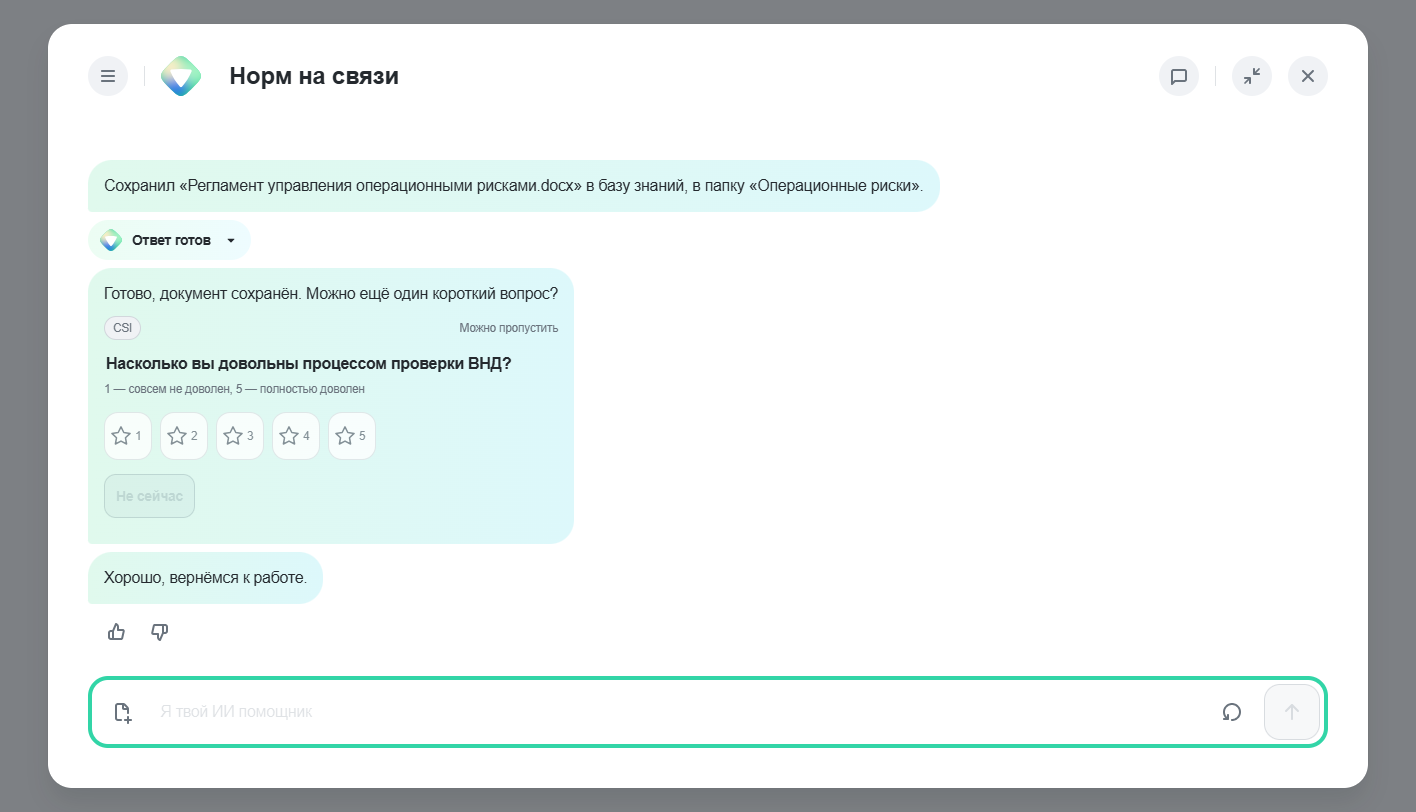
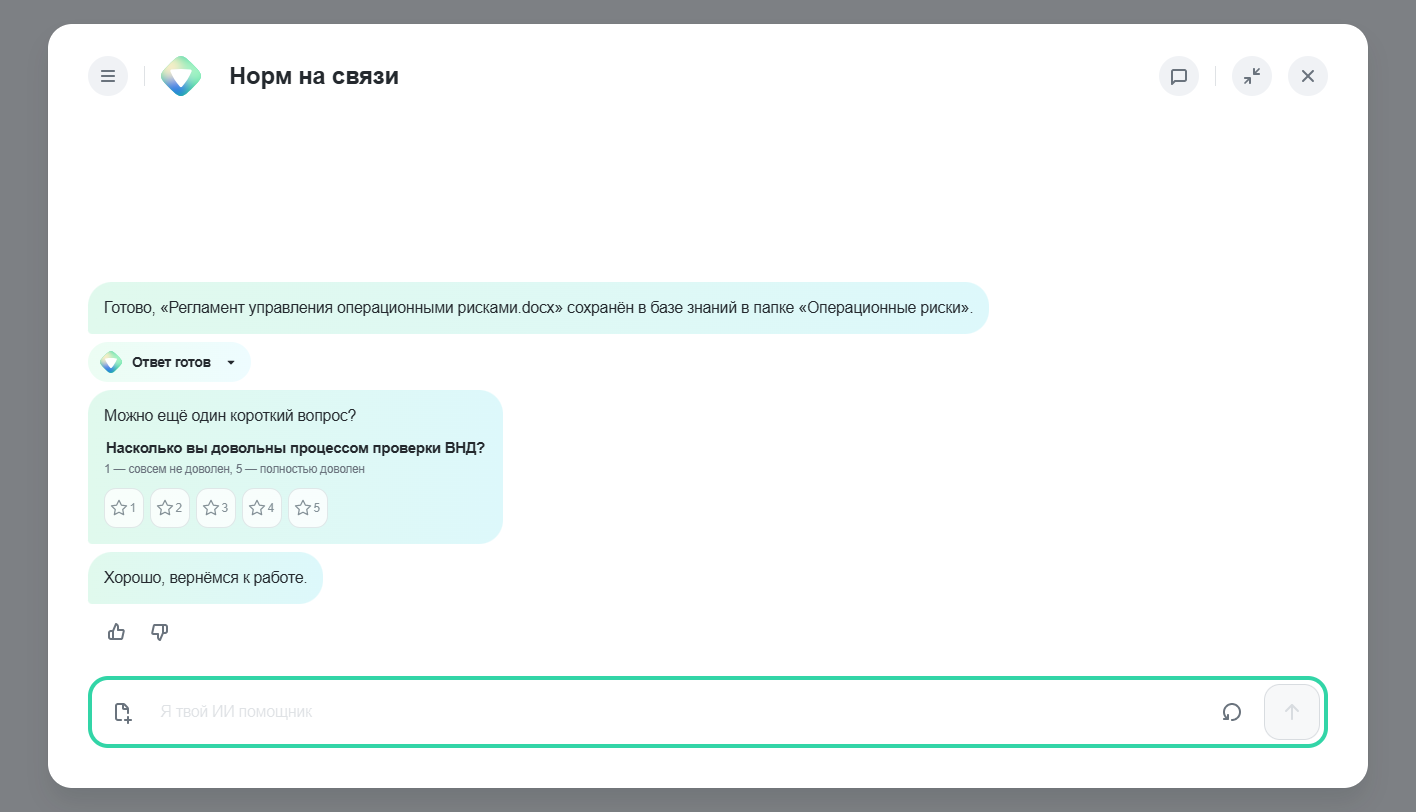
Refine compact CSI prompt layout

Changed region(s): [[0.0621, 0.1847, 0.7147, 0.6773]]

diff --git a/pilot/FeedbackCard.css b/pilot/FeedbackCard.css
@@ -1,24 +1,24 @@
 .feedback-card { width:100%; color:var(--textBaseDefault); font-size:14px; line-height:20px; }
 .feedback-card * { box-sizing:border-box; }
 .feedback-card p { margin:0; }
-.feedback-demo-badge { display:inline-flex; align-items:center; min-height:24px; padding:2px 8px; border:1px solid var(--borderDefault); border-radius:12px; background:var(--backgroundSecondaryDefault); color:var(--textBaseSecondary); font-size:12px; line-height:18px; }
-.feedback-card-heading { display:flex; align-items:center; justify-content:space-between; gap:12px; margin-bottom:12px; color:var(--textBaseSecondary); font-size:12px; }
 .feedback-rating-card fieldset { margin:0; padding:0; border:0; }
-.feedback-rating-card legend { margin-bottom:4px; font-size:16px; line-height:24px; font-weight:600; }
+.feedback-rating-card legend { margin-bottom:2px; font-size:15px; line-height:20px; font-weight:600; }
 .feedback-rating-card fieldset>p,.feedback-rating-card>small { color:var(--textBaseSecondary); font-size:12px; line-height:18px; }
-.feedback-stars { display:flex; gap:8px; margin:14px 0; }
-.feedback-stars label { position:relative; width:48px; min-height:48px; cursor:pointer; }
+.feedback-stars { display:flex; gap:6px; margin:10px 0 0; }
+.feedback-stars label { position:relative; width:40px; min-height:40px; cursor:pointer; }
 .feedback-stars input { position:absolute; width:1px; height:1px; opacity:0; pointer-events:none; }
-.feedback-star-control { width:100%; min-height:48px; display:grid; grid-template-columns:24px 12px; align-items:center; justify-content:center; gap:2px; border:1px solid var(--borderDefault); border-radius:14px; background:var(--backgroundBasicDefault); color:var(--iconBaseSecondary); font:inherit; }
+.feedback-star-control { width:100%; min-height:40px; display:grid; grid-template-columns:20px 10px; align-items:center; justify-content:center; gap:1px; border:1px solid var(--borderDefault); border-radius:12px; background:var(--backgroundBasicDefault); color:var(--iconBaseSecondary); font:inherit; }
 .feedback-stars label:hover:not(.disabled) .feedback-star-control { border-color:var(--borderFocus); background:var(--backgroundBasicHover); }
 .feedback-stars label:focus-within .feedback-star-control { outline:2px solid var(--borderFocus); outline-offset:2px; }
 .feedback-stars label.selected .feedback-star-control { border-color:var(--backgroundPrimaryDefault); color:var(--backgroundPrimaryDefault); background:var(--backgroundLightBrandLight); }
 .feedback-stars label.disabled { cursor:default; opacity:.78; }
-.feedback-stars svg { width:24px; height:24px; stroke:currentColor; stroke-width:1.5; stroke-linejoin:round; }
+.feedback-stars svg { width:20px; height:20px; stroke:currentColor; stroke-width:1.5; stroke-linejoin:round; }
 .feedback-star-control>span { font-size:12px; }
-.feedback-rating-actions { margin:0 0 10px; }
 .feedback-inline-action { display:flex; justify-content:flex-start; }
-.feedback-rating-actions button,.feedback-inline-action button { min-height:44px; }
-@media(max-width:680px){.feedback-card-heading{align-items:flex-start;flex-direction:column}.feedback-stars{gap:4px}.feedback-stars label{width:44px}.feedback-star-control{grid-template-columns:22px 10px}}
+.feedback-inline-action button { min-height:40px; }
+.feedback-cancel-action { min-height:32px; padding:6px 12px; border:0; border-radius:16px; background:var(--backgroundSecondaryDefault); color:var(--textBaseSecondary); font:inherit; font-size:13px; line-height:20px; cursor:pointer; }
+.feedback-cancel-action:hover { background:var(--backgroundSecondaryHover); color:var(--textBaseDefault); }
+.feedback-cancel-action:focus-visible { outline:2px solid var(--borderFocus); outline-offset:2px; }
+@media(max-width:680px){.feedback-stars{gap:4px}.feedback-stars label{width:38px}.feedback-star-control{min-height:38px;grid-template-columns:18px 10px}.feedback-stars svg{width:18px;height:18px}}
 @media(prefers-reduced-motion:reduce){.feedback-card *{scroll-behavior:auto!important;transition:none!important}}
 @media(forced-colors:active){.feedback-stars label.selected .feedback-star-control{border:2px solid CanvasText}}

diff --git a/pilot/main.tsx b/pilot/main.tsx
@@ -26,7 +26,7 @@ import {canResolveVndAttachmentLookup} from './VndBackground.model';
 import {methodologistService} from './mocks/files';
 import {createAtlasPreview, type AtlasPreviewThread} from './atlasPreview';
 import { MessageAddonContext } from '../src/components/Chat/MessageAddonContext';
-import { FeedbackCard, type FeedbackAddon } from './FeedbackCard';
+import { FeedbackCancelAction, FeedbackCard, type FeedbackAddon } from './FeedbackCard';
 import { ScenarioPicker } from './ScenarioPicker';
 import {
   addCsiComment,
@@ -275,8 +275,8 @@ function App() {
     });
     const messages: IMessage[] = !direct
       ? [
-          {id:'csi-context-save', role:ERoles.bot, text:'Сохранил «Регламент управления операционными рисками.docx» в базу знаний, в папку «Операционные риски».', timeCreated:startedAt},
-          {id:'csi-prompt', role:ERoles.bot, text:'Готово, документ сохранён. Можно ещё один короткий вопрос?', extras:feedbackExtras('csi-rating'), timeCreated:startedAt},
+          {id:'csi-context-save', role:ERoles.bot, text:'Готово, «Регламент управления операционными рисками.docx» сохранён в базе знаний в папке «Операционные риски».', timeCreated:startedAt},
+          {id:'csi-prompt', role:ERoles.bot, text:'Можно ещё один короткий вопрос?', extras:feedbackExtras('csi-rating'), timeCreated:startedAt},
         ]
       : entry === 'csiDirectUnknown' ? [
           {id:'csi-direct-request', role:ERoles.user, text:directRequest ?? 'Хочу оценить сервис.', timeCreated:startedAt},
@@ -779,13 +779,16 @@ function App() {
     const addon = message.extras?.feedbackAddon as FeedbackAddon | undefined;
     const draft = threads.find(thread => thread.id === activeThreadId)?.feedbackDraft;
     if (!addon || draft?.kind !== 'csi') return null;
-    return <FeedbackCard
+    const card = <FeedbackCard
       addon={addon}
       draft={draft}
       onRate={selectCsiValue}
       onSkipComment={skipCsiText}
-      onCancel={declineCsi}
     />;
+    return addon === 'csi-rating' ? {
+      inMessage: card,
+      afterMessage: draft.stage === 'rating' ? <FeedbackCancelAction onCancel={declineCsi} /> : null,
+    } : card;
   };
   return <reatomContext.Provider value={ctx}><ThreadUiContext.Provider value={threadUi}><AssistantSkillsContext.Provider value={{skills:demoFlags.assistantSkills ? assistantSkills : [], selectedSkill, onSelect:setSelectedSkillId}}><MessageAddonContext.Provider value={renderMessageAddon}><AgentRunsContext.Provider value={runs}>
     <style>{initialState.embedded ? `.${modalClasses.wrapper}{top:0;height:100dvh}` : `.${modalClasses.wrapper}{top:64px;height:calc(100dvh - 64px)} @media(max-width:599px){.${modalClasses.wrapper}{top:112px;height:calc(100dvh - 112px);padding:0;width:100%}.${modalClasses.content},.${modalClasses.contentChatRight}{margin:8px;width:calc(100% - 16px);max-width:calc(100% - 16px);height:calc(100% - 16px)}.${chatClasses.chat}{min-width:0;width:100%;padding:20px 16px 16px}.${chatClasses.content}{margin-right:-16px;padding-right:16px}.${chatClasses.messages}{margin-right:-16px;padding-right:8px}.${chatClasses.titleLogo}{margin-right:0;width:32px;height:32px}.${chatClasses.titleText}{font-size:20px}.${chatClasses.title}{min-width:150px}.${chatClasses.header}>:last-child{gap:6px}.${chatClasses.header}>:last-child button:not(:first-child):not(:last-child){display:none}}`}</style>

diff --git a/pilot/scenario-map/model.ts b/pilot/scenario-map/model.ts
@@ -123,7 +123,7 @@ export const scenarios: Scenario[] = [
     id: 'csi', eyebrow: 'CSI · после значимого сценария', title: 'Разговорная оценка проверки ВНД',
     description: 'Фиксированный вопрос 1–5, контекстная реакция и завершение без формы подтверждения.', accent: 'mint',
     steps: [
-      { id:'csi.prompt', number:'01', title:'Короткое приглашение', actor:'Агент', kind:'entry', summary:'После сохранения ВНД агент задаёт один необязательный вопрос.', detail:'Вопрос и шкала CSI неизменны. Пользователь может отказаться без повторного приглашения.', screen:'screens/csi-01-prompt.png', screenAlt:'Короткое приглашение оценить проверку ВНД', tags:['CSI','проактивно'] },
+      { id:'csi.prompt', number:'01', title:'Короткое приглашение', actor:'Агент', kind:'entry', summary:'Завершение проверки и необязательный вопрос CSI показаны отдельными сообщениями.', detail:'Компактная шкала остаётся внутри CSI-сообщения, а отказ вынесен под него отдельной нейтральной кнопкой.', screen:'screens/csi-01-prompt.png', screenAlt:'Короткое приглашение оценить проверку ВНД', tags:['CSI','проактивно'] },
       { id:'csi.low', number:'02', title:'Оценка 1–2', actor:'Агент', kind:'state', summary:'Низкая оценка сохранена, агент спокойно спрашивает, что помешало.', detail:'Комментарий необязателен и не влияет на сохранность выбранного балла.', screen:'screens/csi-02-low.png', screenAlt:'Низкая оценка и вопрос о проблеме', tags:['1–2','эмпатия'] },
       { id:'csi.neutral', number:'03', title:'Оценка 3', actor:'Агент', kind:'state', summary:'Нейтральная оценка сохранена, агент спрашивает, что улучшить.', detail:'Реакция не подталкивает пользователя повысить оценку.', screen:'screens/csi-03-neutral.png', screenAlt:'Оценка три и нейтральный уточняющий вопрос', tags:['3','уточнение'] },
       { id:'csi.high', number:'04', title:'Оценка 4–5', actor:'Агент', kind:'state', summary:'Высокая оценка сохранена, можно назвать удачный или неудобный момент.', detail:'Комментарий остаётся свободным и необязательным.', screen:'screens/csi-04-high.png', screenAlt:'Высокая оценка и предложение добавить комментарий', tags:['4–5','комментарий'] },

diff --git a/pilot/FeedbackCard.tsx b/pilot/FeedbackCard.tsx
@@ -10,7 +10,6 @@ interface FeedbackCardProps {
   draft: CsiDraft;
   onRate: (value: number) => void;
   onSkipComment: () => void;
-  onCancel: () => void;
 }
 
 const Star = ({ selected }: { selected: boolean }) => (
@@ -19,13 +18,9 @@ const Star = ({ selected }: { selected: boolean }) => (
   </svg>
 );
 
-function RatingCard({ draft, onRate, onCancel }: Pick<FeedbackCardProps, 'draft' | 'onRate' | 'onCancel'>) {
+function RatingCard({ draft, onRate }: Pick<FeedbackCardProps, 'draft' | 'onRate'>) {
   const selected = draft.rating.value;
   return <section className="feedback-card feedback-rating-card" aria-labelledby="csi-question">
-    <div className="feedback-card-heading">
-      <span className="feedback-demo-badge">CSI</span>
-      <span>Можно пропустить</span>
-    </div>
     <fieldset>
       <legend id="csi-question">{draft.rating.question}</legend>
       <p>1 — совсем не доволен, 5 — полностью доволен</p>
@@ -47,15 +42,18 @@ function RatingCard({ draft, onRate, onCancel }: Pick<FeedbackCardProps, 'draft'
         </label>)}
       </div>
     </fieldset>
-    <div className="feedback-rating-actions"><Button size="S" variant="secondary" disabled={draft.stage !== 'rating'} onClick={onCancel}>Не сейчас</Button></div>
   </section>;
 }
 
 export function FeedbackCard(props: FeedbackCardProps) {
-  if (props.addon === 'csi-rating') return <RatingCard draft={props.draft} onRate={props.onRate} onCancel={props.onCancel} />;
+  if (props.addon === 'csi-rating') return <RatingCard draft={props.draft} onRate={props.onRate} />;
   return <div className="feedback-inline-action">
     <Button size="S" variant="secondary" disabled={props.draft.stage !== 'comment'} onClick={props.onSkipComment}>Без комментария</Button>
   </div>;
+}
+
+export function FeedbackCancelAction({ onCancel }: { onCancel: () => void }) {
+  return <button type="button" className="feedback-cancel-action" onClick={onCancel}>Не сейчас</button>;
 }
 
 export type { FeedbackAddon };

diff --git a/src/components/Chat/components/Message/Message.tsx b/src/components/Chat/components/Message/Message.tsx
@@ -30,7 +30,7 @@ import { Graphs } from '@/components/UniversalChart/components/Graphs';
 import { IChartData } from '@/components/UniversalChart/types';
 import { ERoles } from '../../types';
 import { Table } from '../Table';
-import { useMessageAddon } from '../../MessageAddonContext';
+import { isMessageAddonSlots, useMessageAddon } from '../../MessageAddonContext';
 import classes from './styles.module.scss';
 import type { IMessageProps } from './types';
 
@@ -46,7 +46,13 @@ export const Message = React.memo((props: IMessageProps) => {
 	const { reaction, role, skill, text } = message;
 	const agentRun = useAgentRun(id as string);
 	const renderMessageAddon = useMessageAddon();
-	const messageAddon = renderMessageAddon?.(message as IMessage);
+	const renderedMessageAddon = renderMessageAddon?.(message as IMessage);
+	const messageAddon = renderedMessageAddon && isMessageAddonSlots(renderedMessageAddon)
+		? renderedMessageAddon.inMessage
+		: renderedMessageAddon;
+	const messageAfter = renderedMessageAddon && isMessageAddonSlots(renderedMessageAddon)
+		? renderedMessageAddon.afterMessage
+		: undefined;
 	const isAgentPending = message.extras?.agentPending === 'true';
 	const hasAgentTrace = hasTrace(agentRun);
 
@@ -205,6 +211,7 @@ export const Message = React.memo((props: IMessageProps) => {
 					/>
 				)}
 			</div>}
+			{messageAfter && <div className={classes.messageAfter}>{messageAfter}</div>}
 			{(isReactionsVisible || skill) && (
 				<Row
 					className={cn(classes.attributes, {

diff --git a/pilot/atlasPreview.ts b/pilot/atlasPreview.ts
@@ -180,8 +180,8 @@ function createCsiPreview(stepId: Extract<AtlasStepId, `csi.${string}`>, baseThr
   const outcome = stepId === 'csi.error' ? 'error' : 'success';
   let draft = createCsiDraft('proactive', at(20), { mockOutcome: outcome });
   const messages: IMessage[] = [
-    { id:'atlas-csi-context', role:ERoles.bot, text:'Сохранил «Регламент управления операционными рисками.docx» в базу знаний, в папку «Операционные риски».', timeCreated:at(19) },
-    { id:'atlas-csi-prompt', role:ERoles.bot, text:'Готово, документ сохранён. Можно ещё один короткий вопрос?', extras:{type:'system', feedbackAddon:'csi-rating'}, timeCreated:at(20) },
+    { id:'atlas-csi-context', role:ERoles.bot, text:'Готово, «Регламент управления операционными рисками.docx» сохранён в базе знаний в папке «Операционные риски».', timeCreated:at(19) },
+    { id:'atlas-csi-prompt', role:ERoles.bot, text:'Можно ещё один короткий вопрос?', extras:{type:'system', feedbackAddon:'csi-rating'}, timeCreated:at(20) },
   ];
   if (stepId === 'csi.declined') {
     draft = cancelCsi(draft);

diff --git a/pilot/atlasPreview.model.test.ts b/pilot/atlasPreview.model.test.ts
@@ -102,6 +102,10 @@ describe('atlas live preview states', () => {
 
     expect(prompt?.scenario).toBe('csiProactive');
     expect(prompt?.threads.find(thread => thread.id === 'vnd')?.feedbackDraft?.stage).toBe('rating');
+    expect(prompt?.threads.find(thread => thread.id === 'vnd')?.messages.slice(-2).map(message => message.text)).toEqual([
+      'Готово, «Регламент управления операционными рисками.docx» сохранён в базе знаний в папке «Операционные риски».',
+      'Можно ещё один короткий вопрос?',
+    ]);
     expect(low?.threads.find(thread => thread.id === 'vnd')?.feedbackDraft?.rating?.value).toBe(1);
     expect(low?.threads.find(thread => thread.id === 'vnd')?.messages.at(-1)?.text).toContain('что помешало');
     expect(neutral?.threads.find(thread => thread.id === 'vnd')?.messages.at(-1)?.text).toContain('Что стоит улучшить');

diff --git a/src/components/Chat/MessageAddonContext.tsx b/src/components/Chat/MessageAddonContext.tsx
@@ -1,7 +1,15 @@
 import React, { createContext, useContext } from 'react';
 import type { IMessage } from '@/types';
 
-export type MessageAddonRenderer = (message: IMessage) => React.ReactNode;
+export interface MessageAddonSlots {
+  inMessage?: React.ReactNode;
+  afterMessage?: React.ReactNode;
+}
+
+export type MessageAddonRenderer = (message: IMessage) => React.ReactNode | MessageAddonSlots;
+
+export const isMessageAddonSlots = (value: React.ReactNode | MessageAddonSlots): value is MessageAddonSlots =>
+  value !== null && typeof value === 'object' && !React.isValidElement(value) && ('inMessage' in value || 'afterMessage' in value);
 
 export const MessageAddonContext = createContext<MessageAddonRenderer | undefined>(undefined);
 

diff --git a/src/components/Chat/components/Message/styles.module.scss b/src/components/Chat/components/Message/styles.module.scss
@@ -99,6 +99,10 @@
   }
 }
 
+.messageAfter {
+  align-self: start;
+}
+
 .attributes {
   @extend .row;
 
